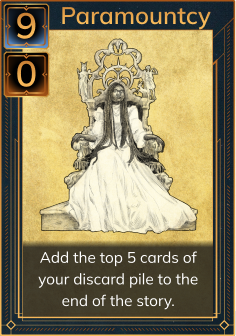
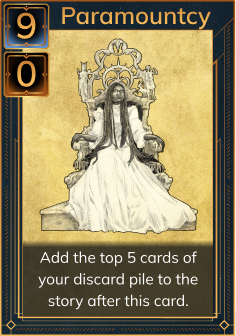
Updated paramountcy. Tutorial text now appears below the image

Changed region(s): [[0.2076, 0.8631, 0.8008, 0.9226]]

diff --git a/src/scene/matchRegions/searching.ts b/src/scene/matchRegions/searching.ts
@@ -80,6 +80,9 @@ export default class SearchingRegion extends Region {
 	}
 }
 
+// Height of the tutorial text
+const TEXT_HEIGHT = 225
+
 // A separate initial region seen during the tutorial
 export class SearchingRegionTutorial extends Region {
 	btn: Button
@@ -123,23 +126,27 @@ export class SearchingRegionTutorial extends Region {
 	}
 
 	private createText(scene: BaseScene, tutorialNum: number): void {
-		let txt = scene.add.text(0, 0, '', Style.stillframe)
+		let background = scene.add.image(0, Space.windowHeight - TEXT_HEIGHT, 'bg-Texture')
+		.setOrigin(0)
+		.setAlpha(0.8)
+		scene.plugins.get('rexDropShadowPipeline')['add'](background, {
+			distance: 3,
+			shadowColor: 0x000000,
+		})
 
-		let background = this.scene.rexUI.add.roundRectangle(0, 0, 100, 100, 10, 0x000000, 0.5)
+		let txt = scene.add.text(0, 0, '', Style.stillframe)
 
 		const s = STORY_TEXT[tutorialNum][0]
 		this.textbox = scene.rexUI.add.textBox({
 			text: txt,
 			x: Space.pad,
-			y: Space.pad,
+			y: background.y,
 			space: {
 				left: Space.pad,
 				right: Space.pad,
 				top: Space.pad,
 				bottom: Space.pad,
 			},
-			// width: Space.stillframeTextWidth,
-			background: background,
 		})
 		.start(s, 50)
 		.setOrigin(0)
@@ -197,7 +204,7 @@ export class SearchingRegionTutorial extends Region {
 				targets: this.img,
 				duration: 6000,
 				ease: Ease.stillframe,
-				y: Space.windowHeight - this.img.displayHeight,
+				y: downFully,
 				onStart: () => {
 					this.img.y = 0
 					this.btn.disable()
